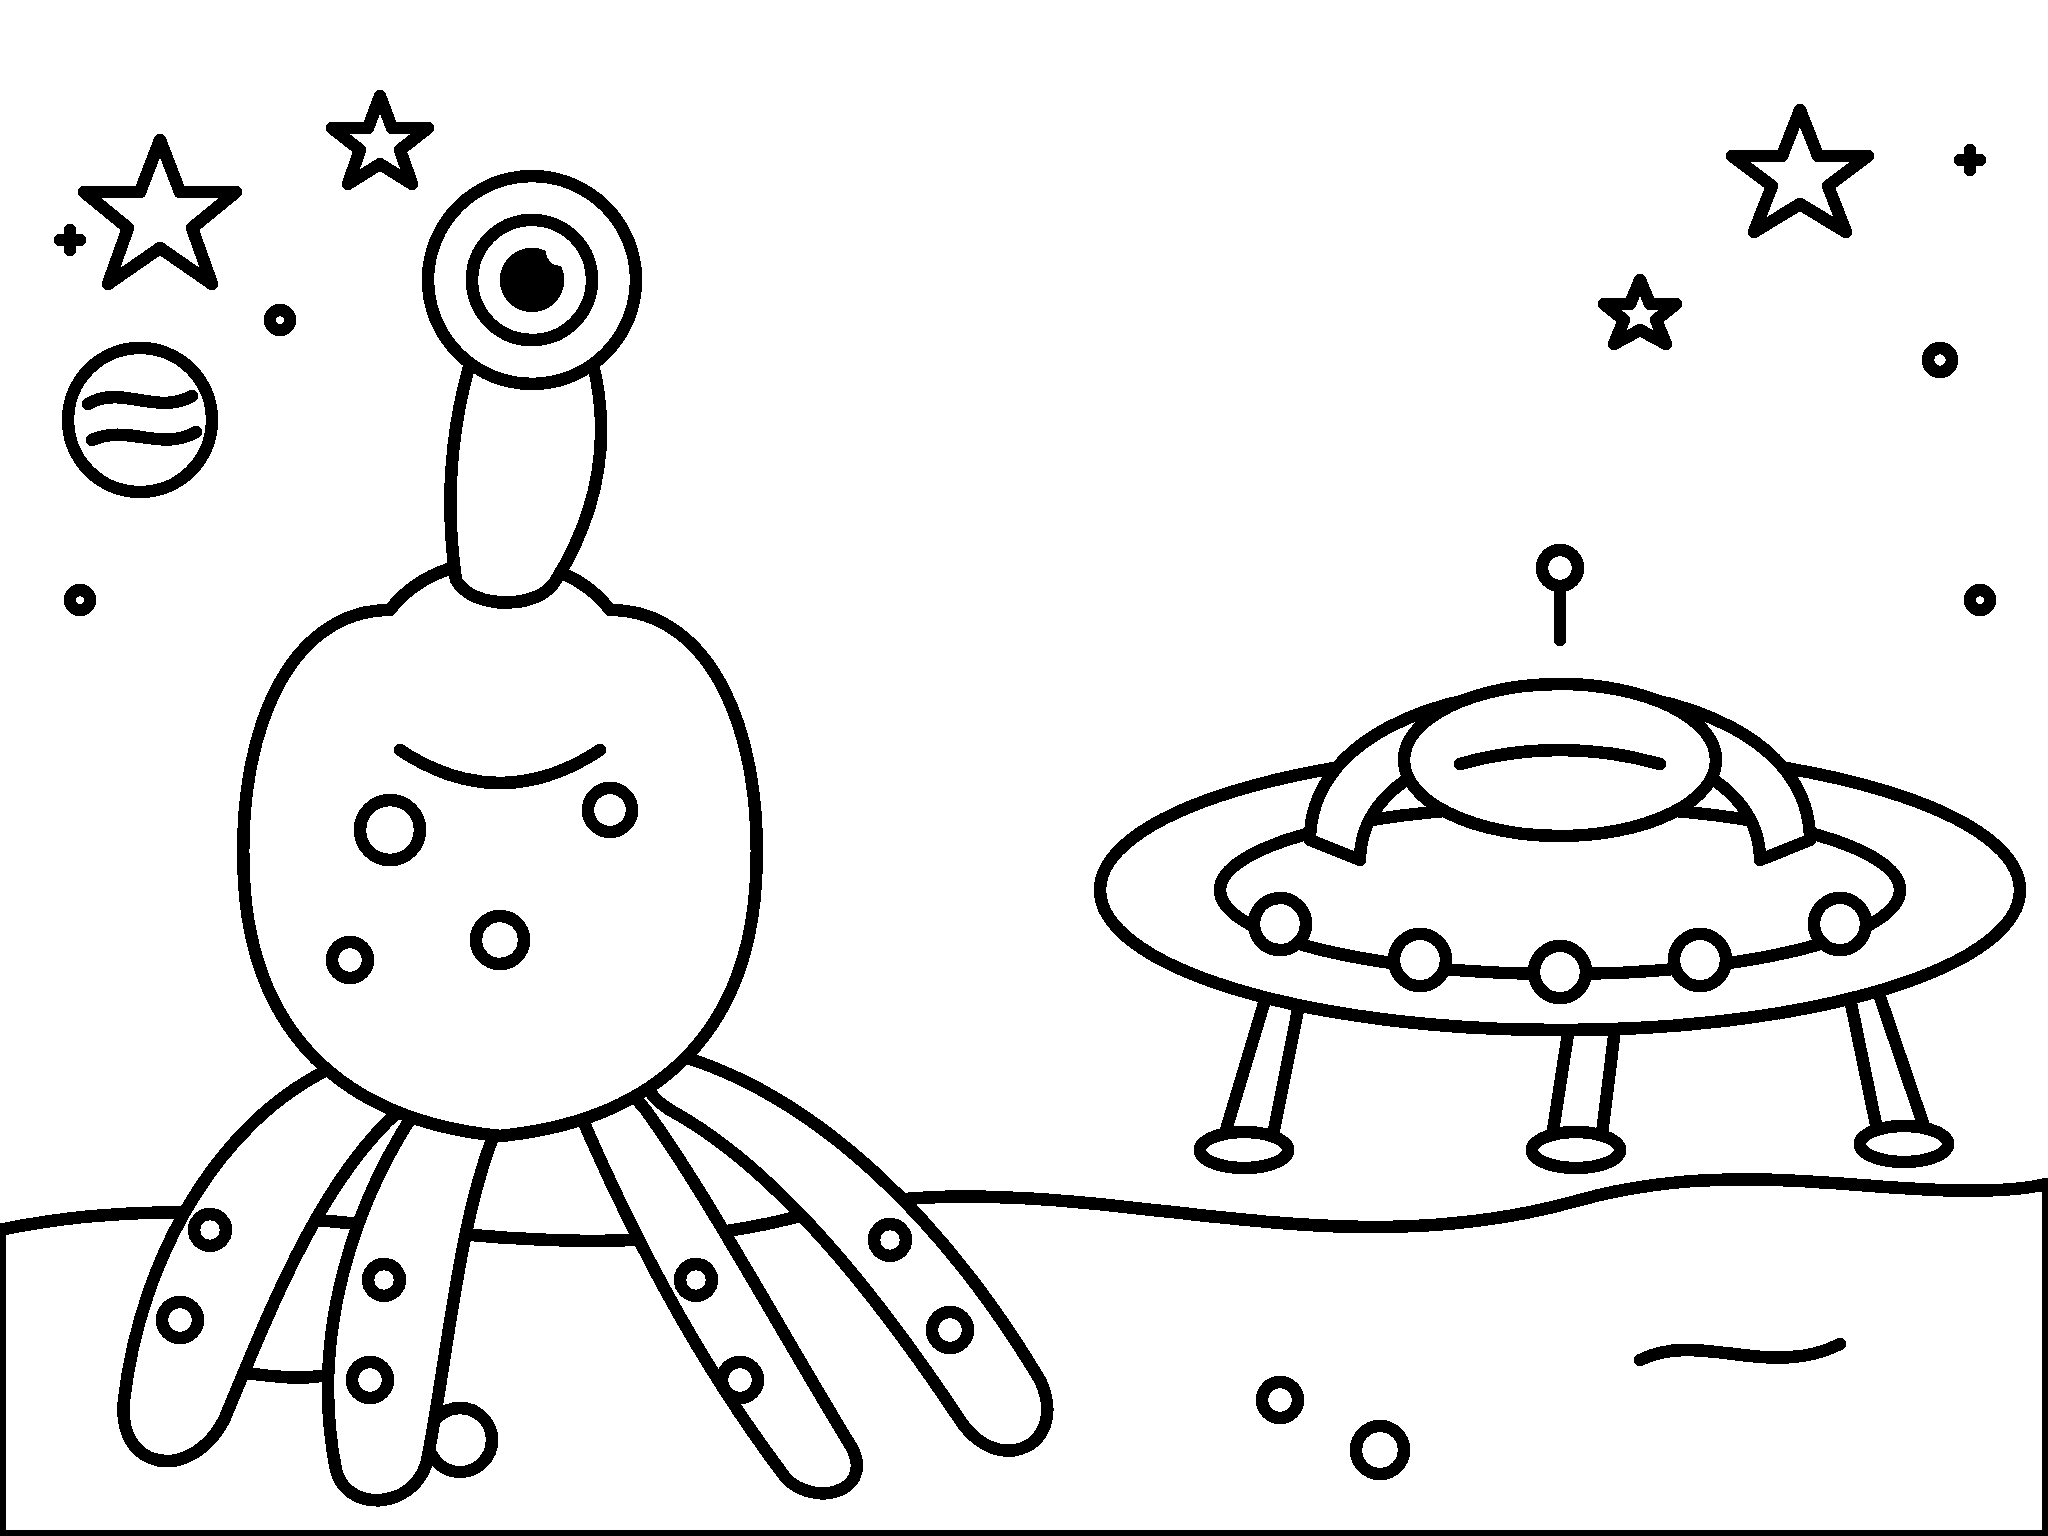
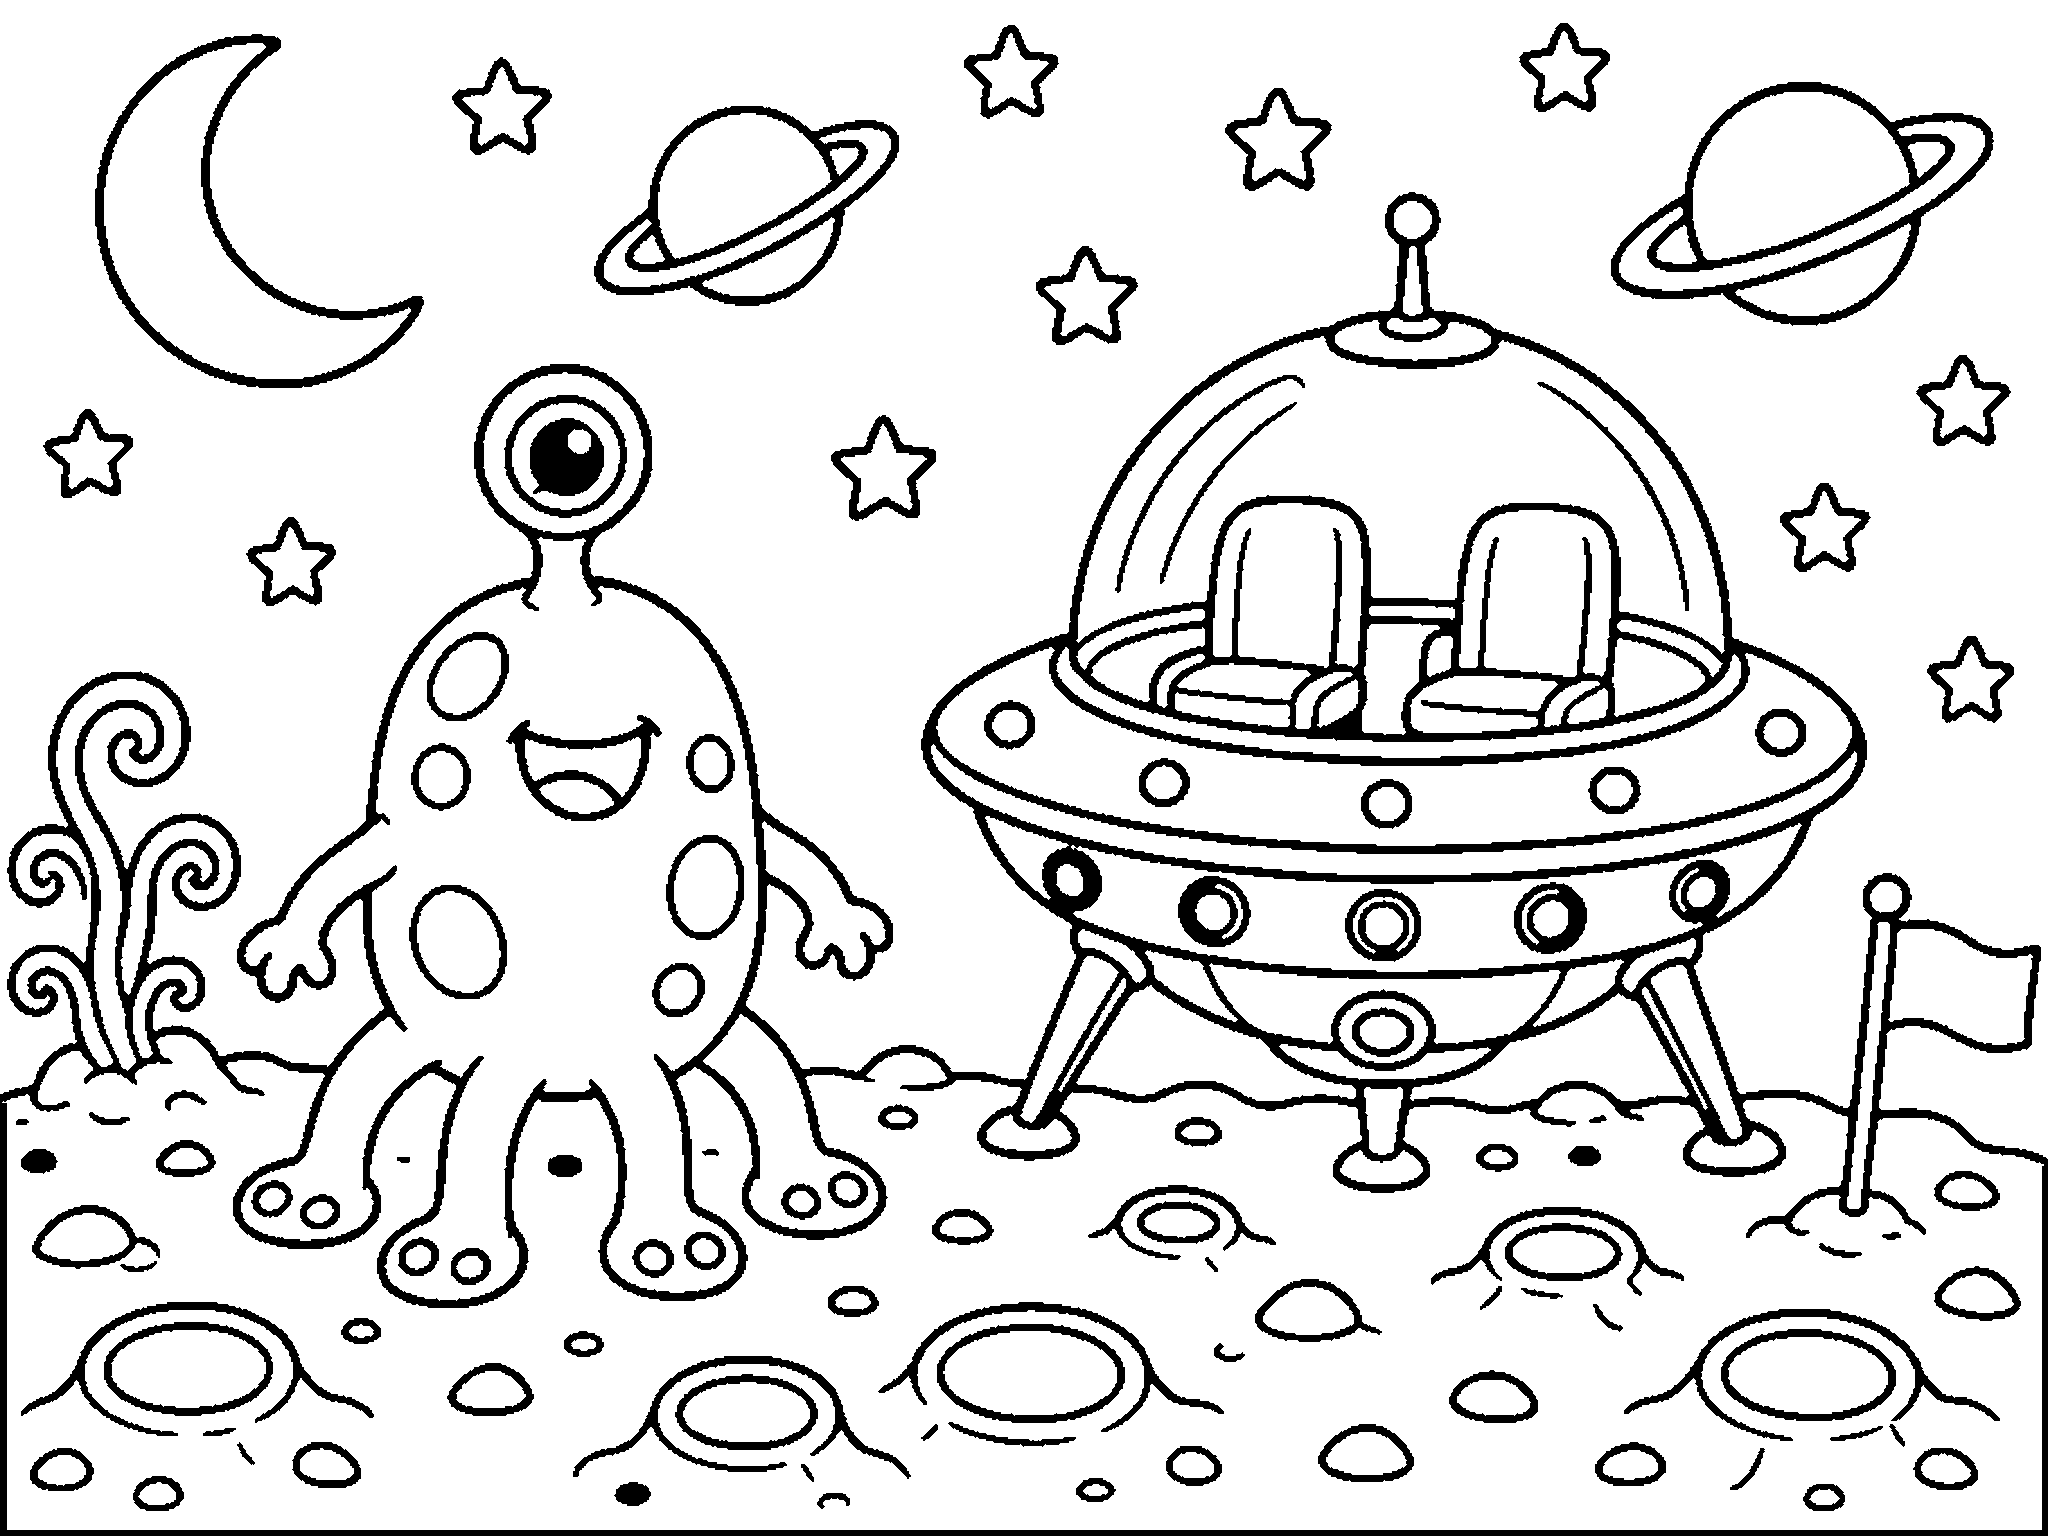
Maak de kleurplaten van alien, Saturnus en poes rijker, in de stijl van een écht kleurboek.
Nieuwe lijntekeningen met expressieve personages, meer details en achtergrond, gesloten vlakken en 2048×1536 tot aan de rand.

diff --git a/test/kleur-fill-regions.js b/test/kleur-fill-regions.js
@@ -37,9 +37,9 @@ const LEAK_SAMPLES = {
   kasteel: [{ x: 512, y: 680, name: 'gracht' }, { x: 500, y: 400, name: 'muur' }],
   raket: [{ x: 512, y: 300, name: 'raket' }, { x: 200, y: 150, name: 'maan' }],
   vliegtuig: [{ x: 500, y: 350, name: 'toestel' }, { x: 180, y: 680, name: 'wolk' }],
-  alien: [{ x: 250, y: 430, name: 'lijf' }, { x: 180, y: 620, name: 'tentakel' }, { x: 750, y: 430, name: 'schotel' }, { x: 700, y: 700, name: 'grond' }],
-  saturnus: [{ x: 300, y: 400, name: 'raket' }, { x: 720, y: 420, name: 'saturnus' }, { x: 400, y: 530, name: 'vlam' }, { x: 130, y: 150, name: 'maan' }],
-  poes: [{ x: 500, y: 400, name: 'poes' }, { x: 300, y: 560, name: 'plank' }, { x: 512, y: 720, name: 'gras' }, { x: 100, y: 100, name: 'zon' }]
+  alien: [{ x: 280, y: 430, name: 'lijf' }, { x: 200, y: 700, name: 'grond' }, { x: 700, y: 280, name: 'koepel' }],
+  saturnus: [{ x: 360, y: 380, name: 'raket' }, { x: 750, y: 220, name: 'saturnus' }, { x: 250, y: 540, name: 'vlam' }],
+  poes: [{ x: 430, y: 360, name: 'poes' }, { x: 700, y: 550, name: 'plank' }, { x: 512, y: 720, name: 'gras' }, { x: 120, y: 90, name: 'zon' }]
 };
 
 async function waitOutline(page) {
